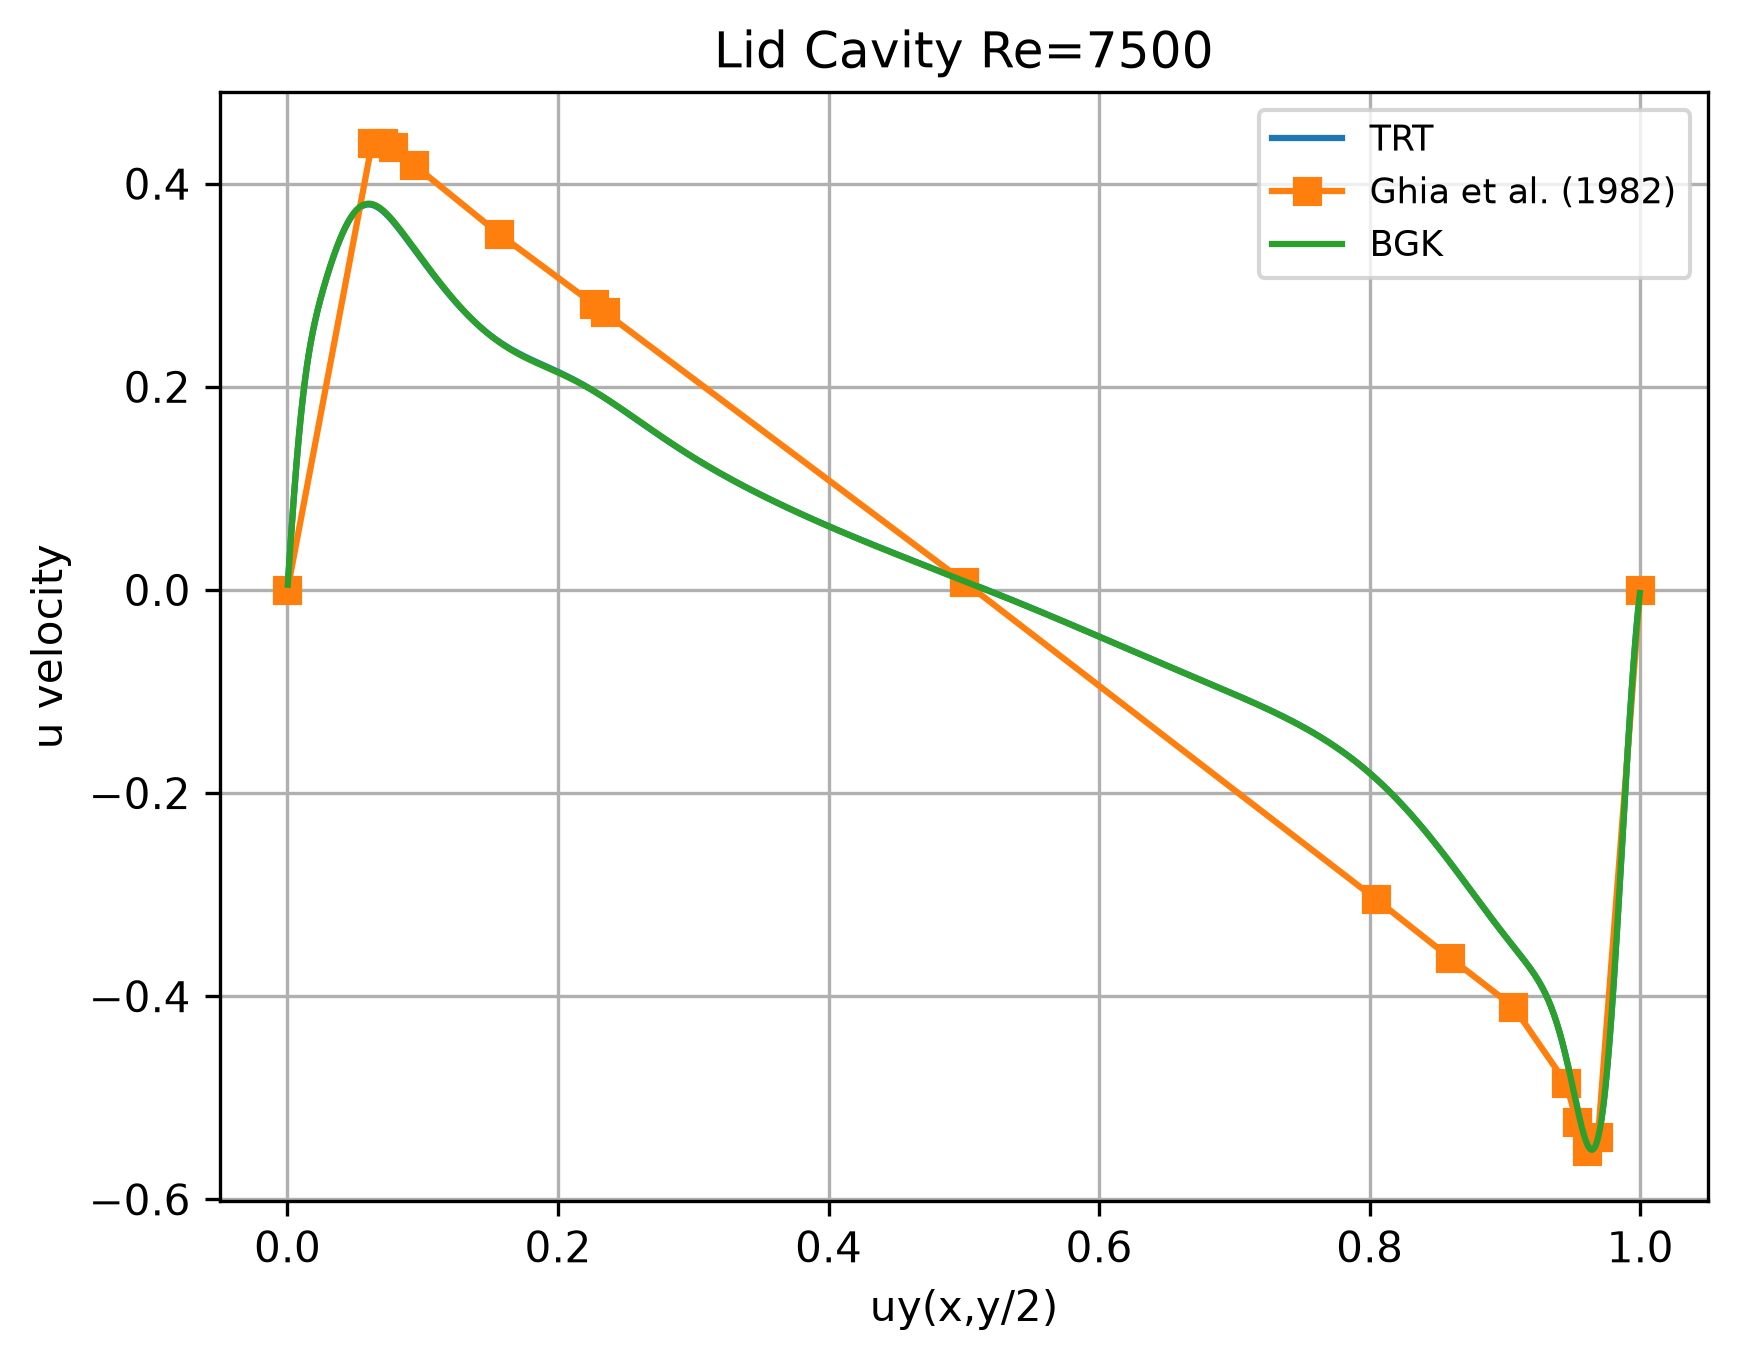
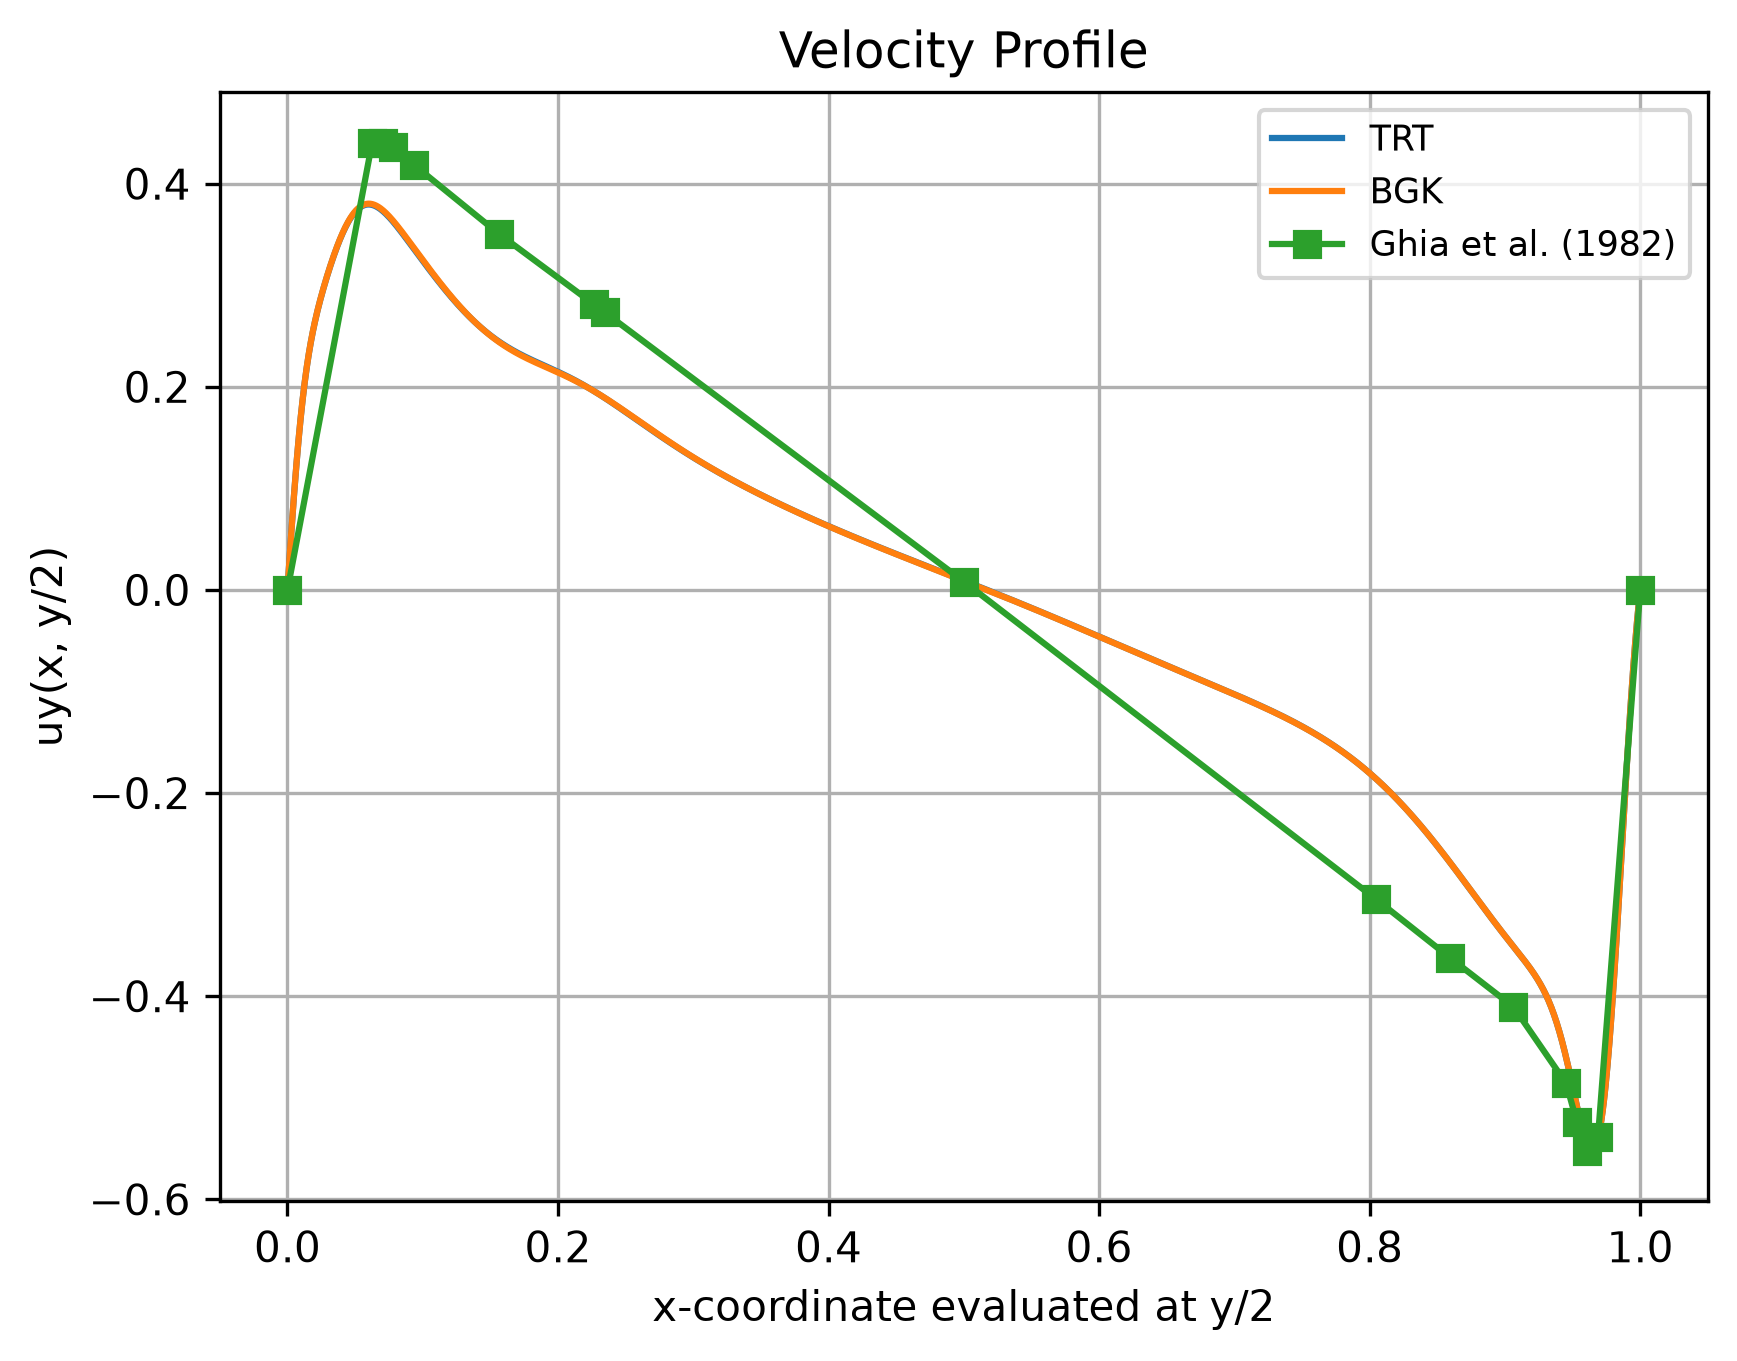
fix(scripts, docs, configs, benchmarks): small fixes
Benchmarks refactor to make it easier to understand what they represent.
Configs for the Lid Cavity 7500 run.
Replaced profile comparison 7500 png.
Fix on visualize profile labels.

diff --git a/scripts/py/visualize_profile.py b/scripts/py/visualize_profile.py
@@ -111,7 +111,7 @@ def plot_ghia_data(plt, ghia_data):
     plt.plot(ghia_data[:, 0], ghia_data[:, 1], label="Ghia et al. (1982)", marker="s")
 
 
-def create_graph(parsed_results, title, xlabel, output_file=None):
+def create_graph(parsed_results, title, xlabel, ylabel, output_file=None):
     # creo un grafico per i valori di data e lo mostro
     plt.figure()
 
@@ -145,7 +145,7 @@ def create_graph(parsed_results, title, xlabel, output_file=None):
 
     # Aggiungo i dati di Ghia et al. 1982 per confronto
     plt.xlabel(xlabel)
-    plt.ylabel("u velocity")
+    plt.ylabel(ylabel)
     plt.title(title)
     plt.legend(fontsize="small", loc="best")
     plt.grid(True)
@@ -210,7 +210,15 @@ def parse_args():
         "--xlabel",
         nargs="?",
         type=str,
-        default="uy(x,y/2)",
+        default="x-coordinate evaluated at y/2",
+        help="Custom xlabel",
+    )
+
+    parser.add_argument(
+        "--ylabel",
+        nargs="?",
+        type=str,
+        default="uy(x, y/2)",
         help="Custom xlabel",
     )
 
@@ -225,7 +233,13 @@ def main():
     args = parse_args()
 
     results = read_data(args.files)
-    create_graph(results, title=args.title, xlabel=args.xlabel, output_file=args.output)
+    create_graph(
+        results,
+        title=args.title,
+        xlabel=args.xlabel,
+        ylabel=args.ylabel,
+        output_file=args.output,
+    )
 
 
 if __name__ == "__main__":
